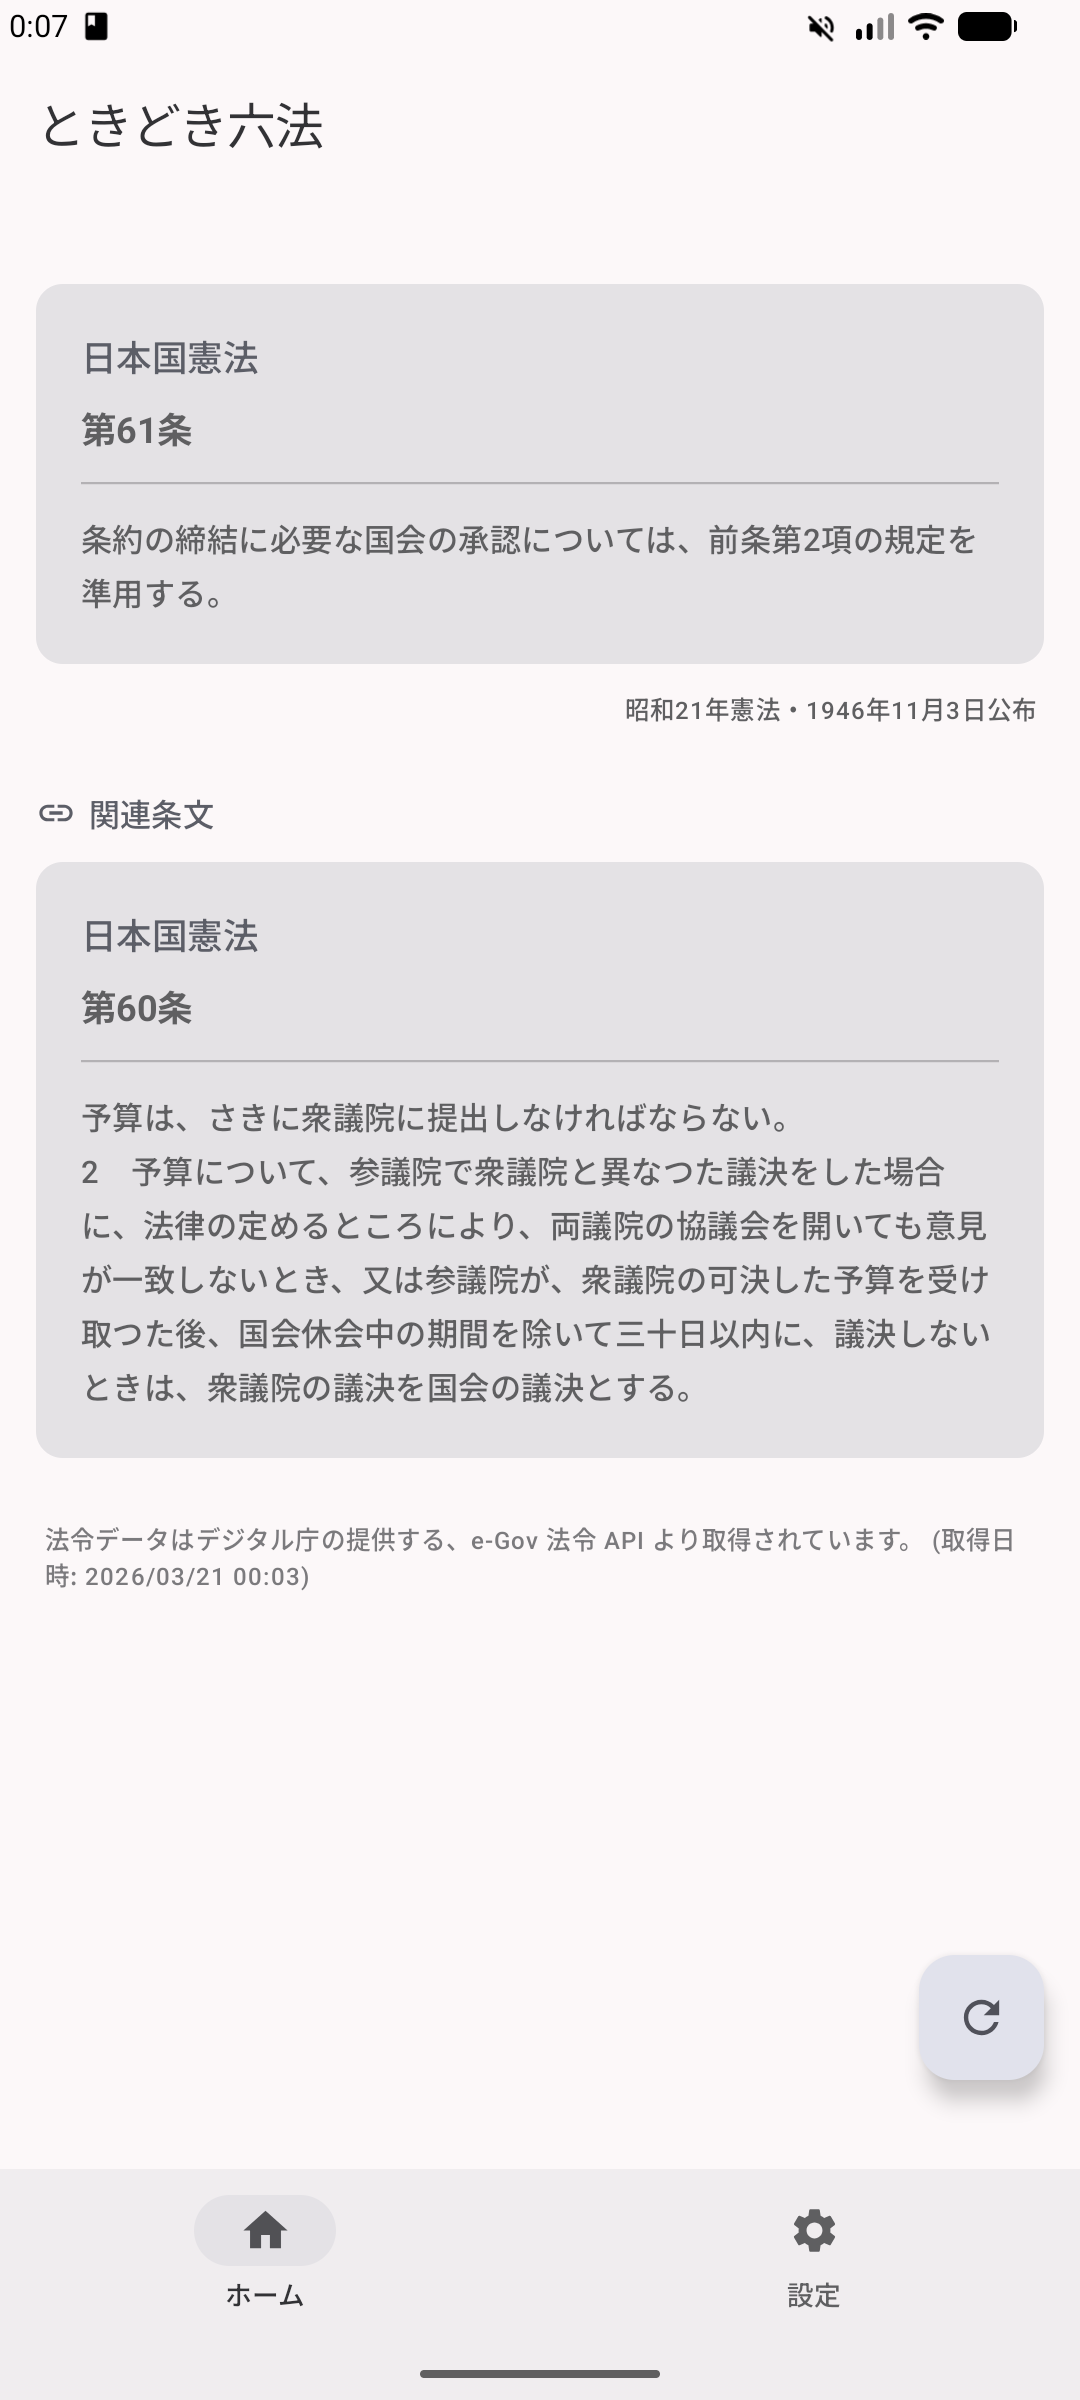
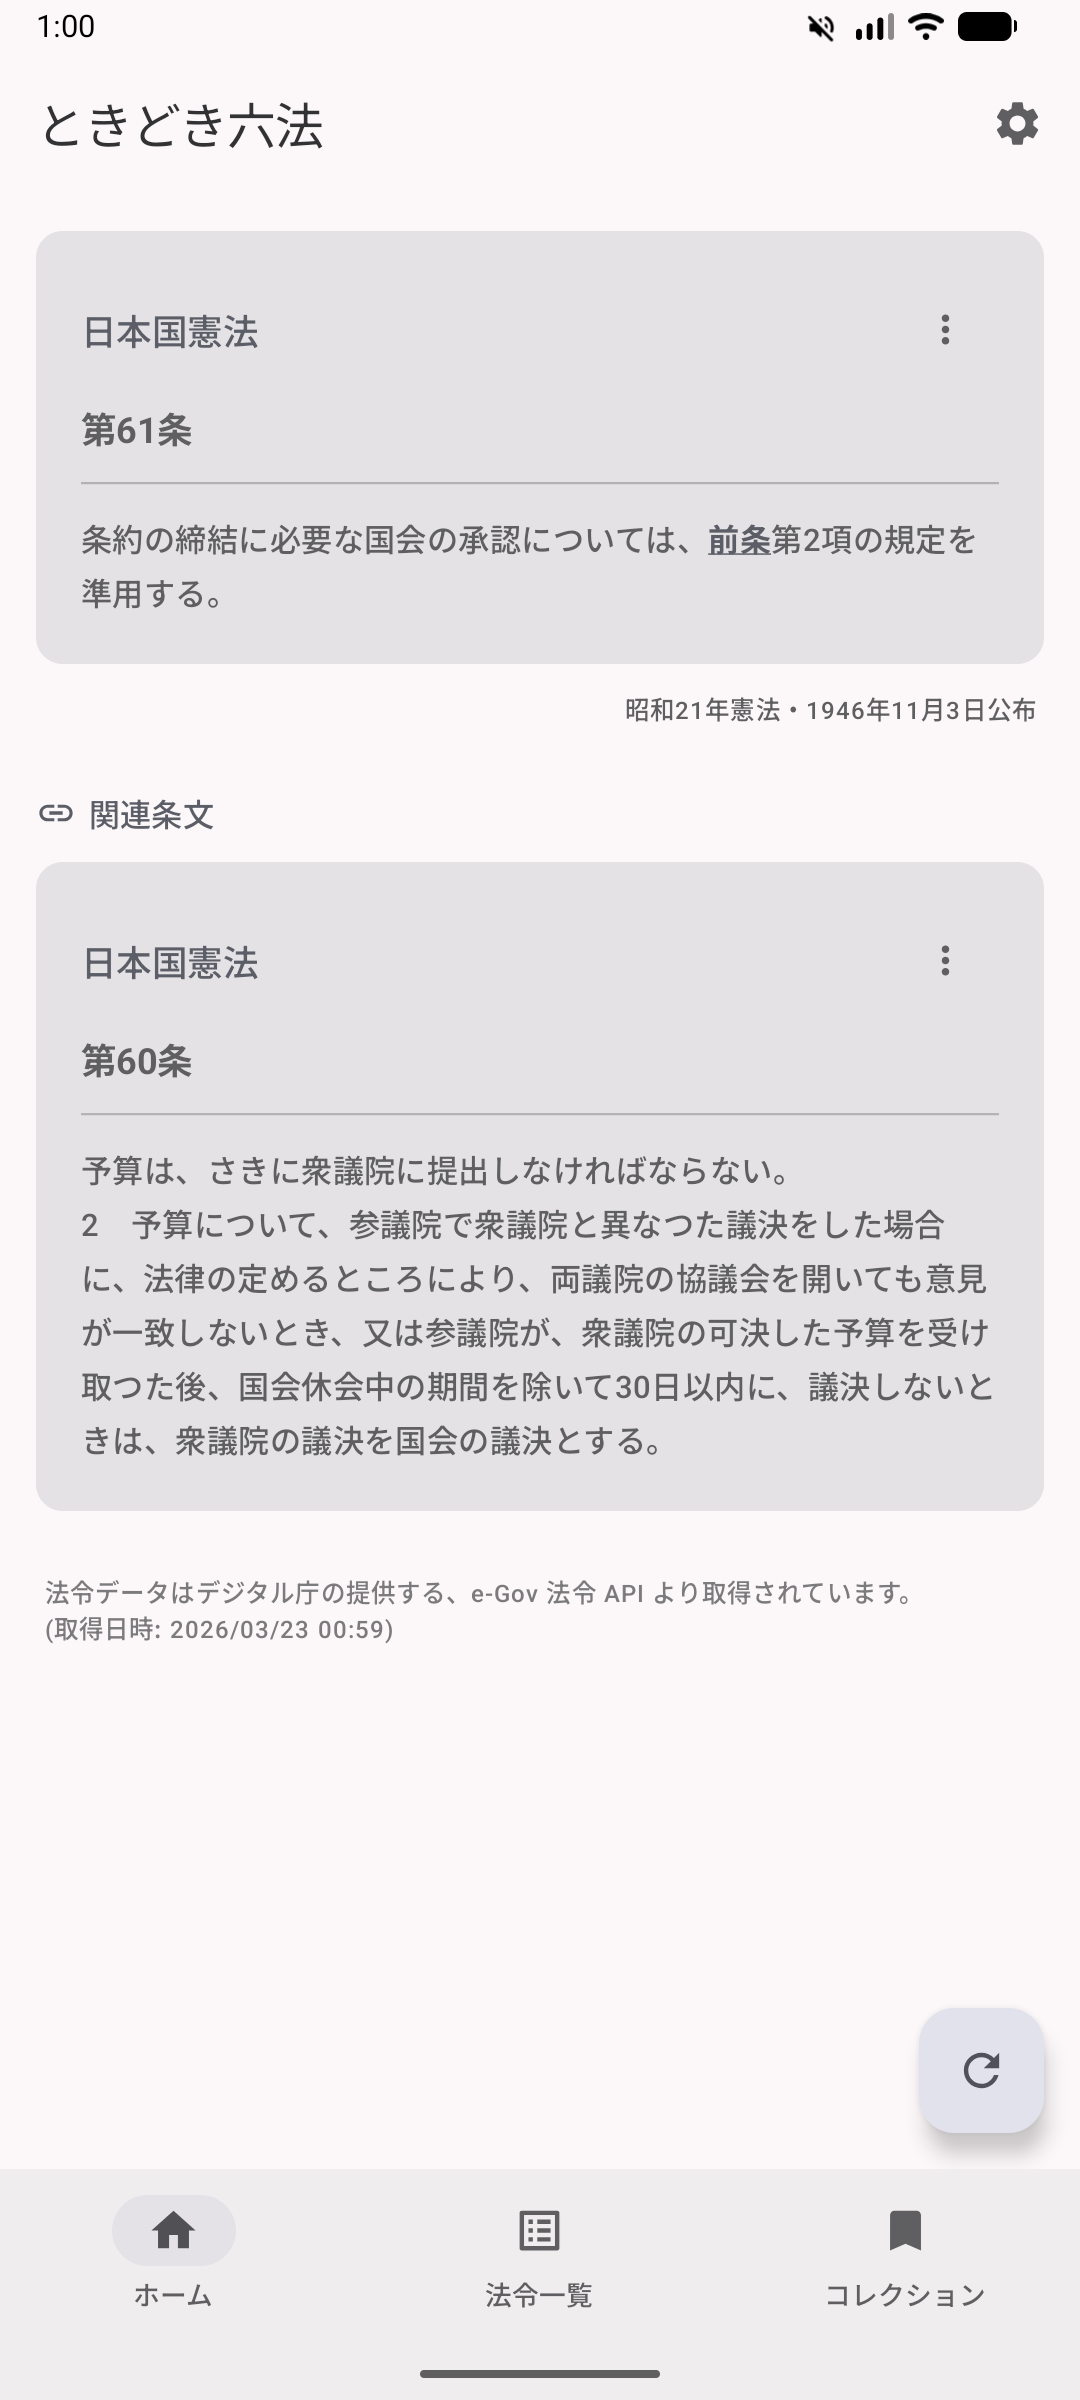
docs: README のスクリーンショット・機能一覧・技術スタックを更新
- スクリーンショットを5枚に拡充 (法令一覧・コレクション画面を追加)
- 既存スクリーンショットを最新版に差し替え
- 機能一覧に横断検索・コレクション保存を追加
- 対応法令に道路交通法 (その他カテゴリ) を追加
- 技術スタックに Navigation 3・feature:laws・feature:collection を追加

diff --git a/README.md b/README.md
@@ -6,9 +6,11 @@
 
 <!-- markdownlint-disable MD033 MD045 -->
 <p align="center">
-  <img src="image/screenshot_home.png" alt="ホーム画面" width="30%" />
-  <img src="image/screenshot_settings.png" alt="設定画面" width="30%" />
-  <img src="image/screenshot_notifications.png" alt="通知" width="30%" />
+  <img src="image/screenshot_home.png" alt="ホーム画面" width="19%" />
+  <img src="image/screenshot_list.png" alt="法令一覧画面" width="19%" />
+  <img src="image/screenshot_collection.png" alt="コレクション画面" width="19%" />
+  <img src="image/screenshot_settings.png" alt="設定画面" width="19%" />
+  <img src="image/screenshot_notifications.png" alt="通知" width="19%" />
 </p>
 <!-- markdownlint-enable MD033 MD045 -->
 
@@ -23,6 +25,8 @@ Firebase App Distribution でテスト版を配布しています。以下のリ
 - 設定した間隔で条文が通知される (オフラインでも動作)
 - 通知タップでアプリ内に条文を表示
 - 表示中の条文から参照されている関連条文も併せて表示
+- 法令名・条文番号・条文内容で横断検索
+- 気になる条文をコレクションに保存
 - 全角かっこの半角化・漢数字の算用数字変換オプション
 - 法令データは [e-Gov 法令 API](https://laws.e-gov.go.jp/api/2/) からローカルに取得・キャッシュ
 
@@ -36,11 +40,12 @@ Firebase App Distribution でテスト版を配布しています。以下のリ
 | 商法関連 | 会社法 |
 | 行政書士業務関連 | 行政書士法、戸籍法、住民基本台帳法 |
 | 情報関連法 | デジタル行政推進法、個人情報保護法、番号利用法、情報公開・個人情報保護審査会設置法、電子消費者契約法、電子署名法、公的個人認証法 |
+| その他 | 道路交通法 |
 
 ## 技術スタック
 
 - Kotlin / Jetpack Compose / Material 3
-- マルチモジュール構成 (app, core:domain, core:data, core:ui, feature:home, feature:settings)
-- Hilt (DI)、Room (ローカルキャッシュ)、WorkManager (バックグラウンド通知・キャッシュ更新)、DataStore (設定)
+- マルチモジュール構成 (app, core:domain, core:data, core:ui, feature:home, feature:laws, feature:collection, feature:settings)
+- Navigation 3、Hilt (DI)、Room (ローカルキャッシュ)、WorkManager (バックグラウンド通知・キャッシュ更新)、DataStore (設定)
 - Ktor Client (e-Gov 法令 API)
 - GitHub Actions CI / Firebase App Distribution
